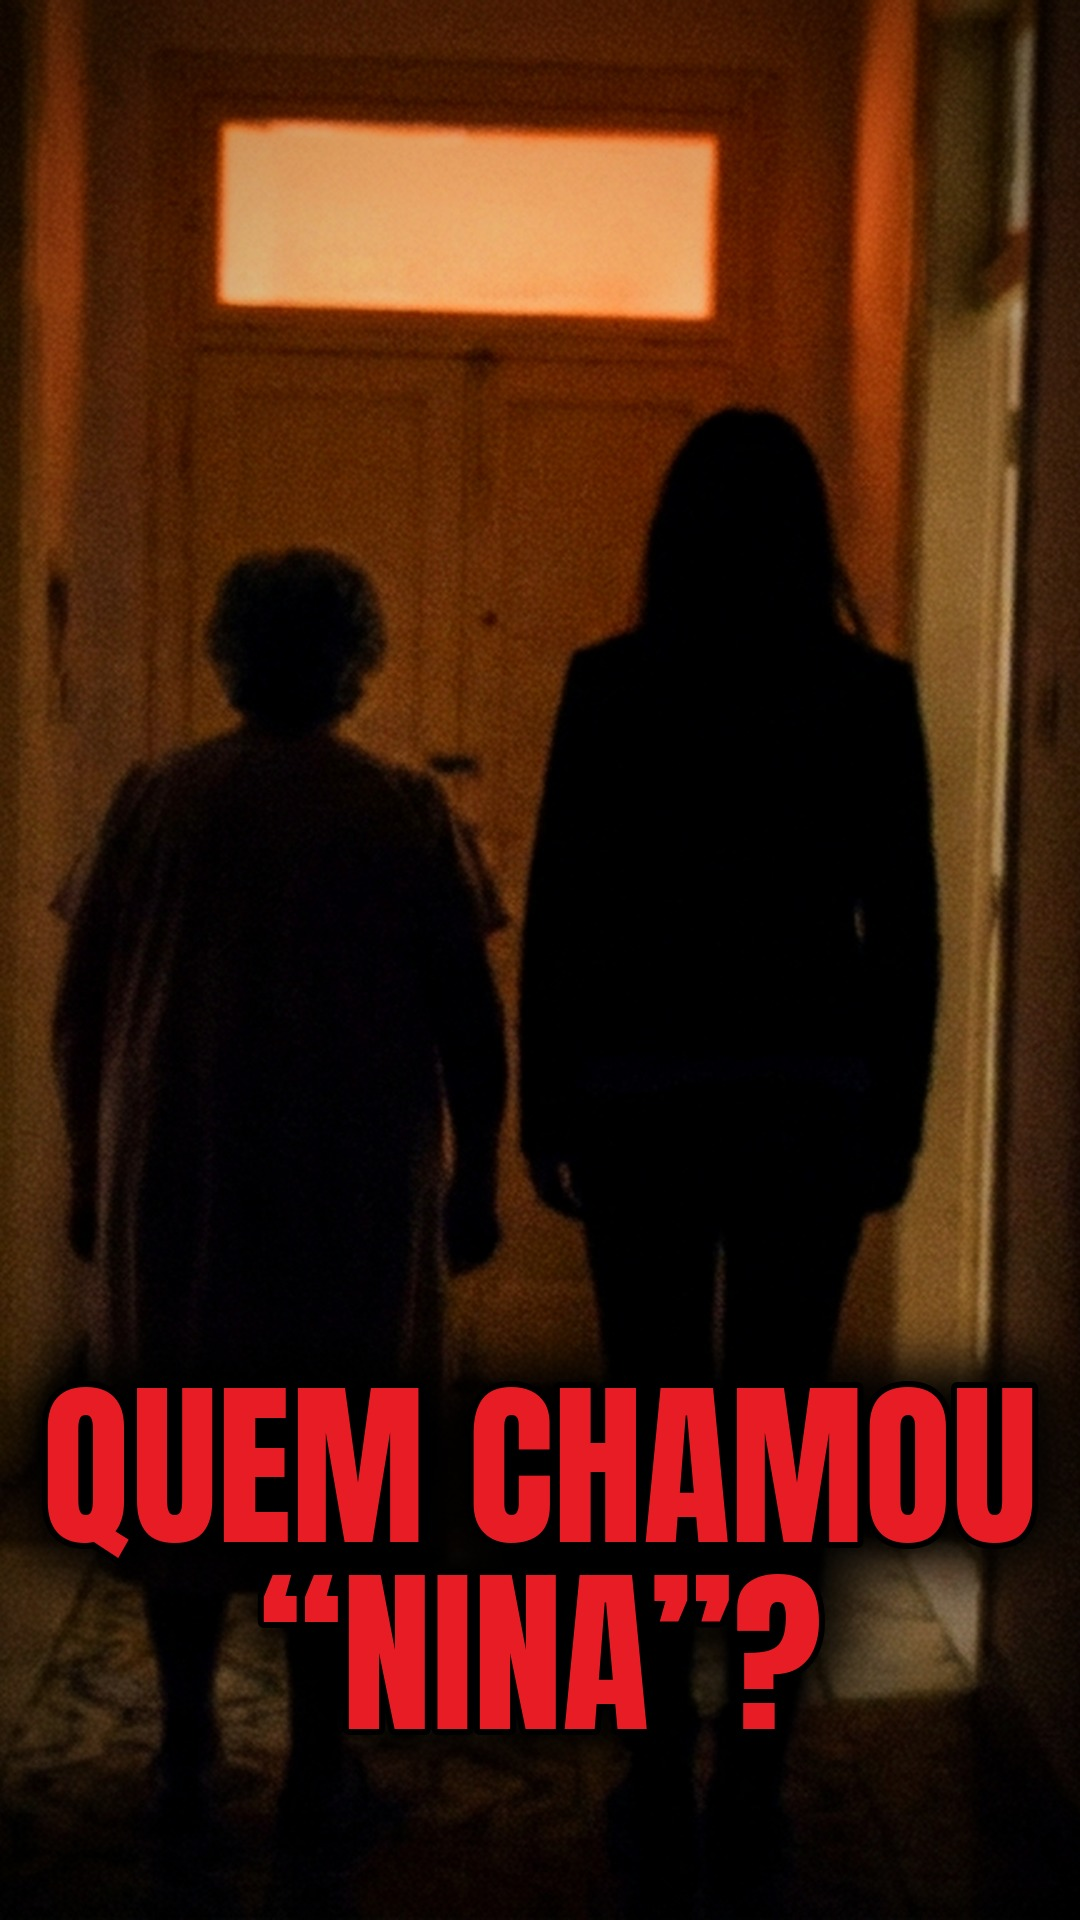
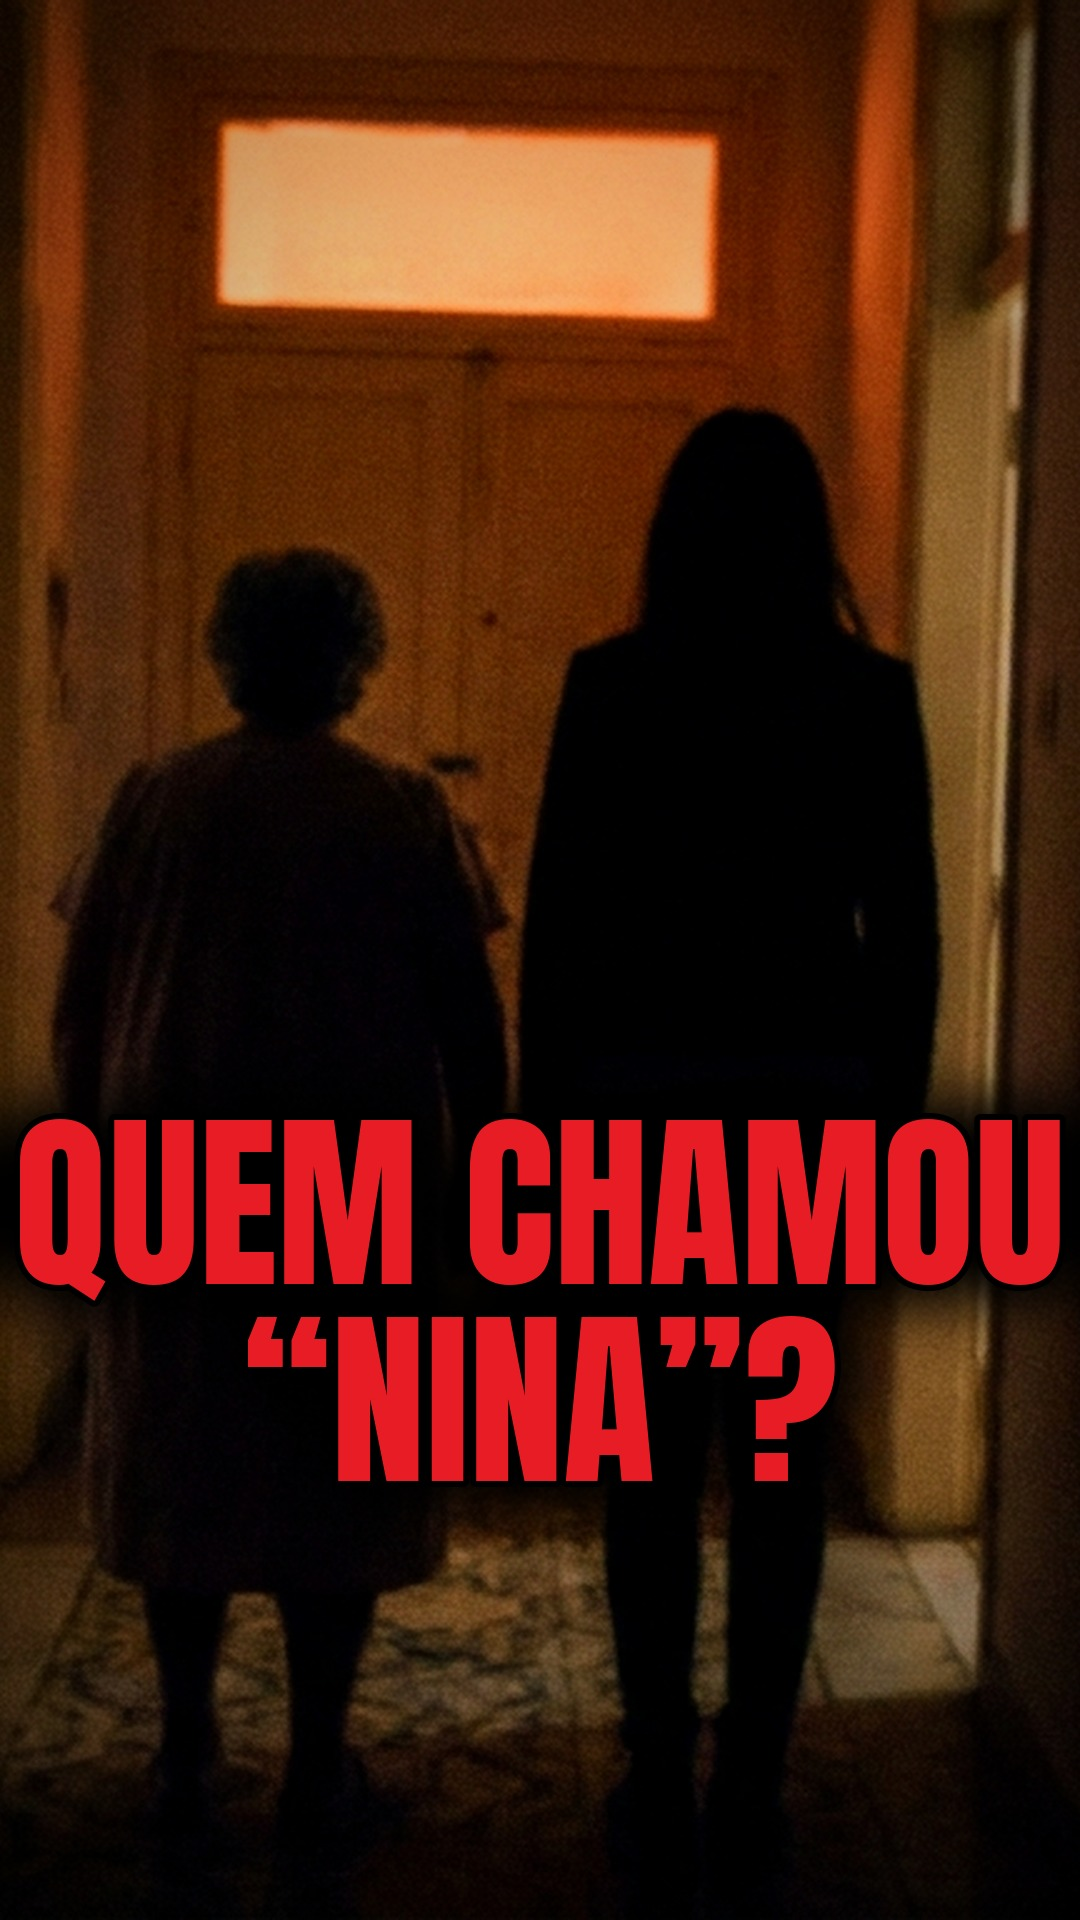
Ep. 05: capas dos Shorts com texto na zona segura; Short 3 com 'NÃO ABRE.' (não repete o título)
Claude-Session: https://claude.ai/code/session_01Mik5s9WJkfvsyjJAMyZLER

Changed region(s): [[0.0, 0.5312, 1.0, 0.9375]]

diff --git a/video/episodios/ep05-cabra-cabriola/publicacao/fazer_capas_shorts.py b/video/episodios/ep05-cabra-cabriola/publicacao/fazer_capas_shorts.py
@@ -39,7 +39,9 @@ def texto(im, linhas, y, tam, cor=(232, 28, 36)):
     return im.convert("RGB")
 
 
-texto(base("B01_porta_corredor.jpg", (0.5, 0.42), 1.15), ["QUEM TÁ", "FALANDO AÍ?"], 1250, 190).save(AQUI / "capa_short1_quem_ta_falando.jpg", quality=92)
-texto(base("B08_duas_corredor.jpg", (0.5, 0.5), 1.0), ["QUEM CHAMOU", "“NINA”?"], 1330, 180).save(AQUI / "capa_short2_nina.jpg", quality=92)
-texto(base("B11c_fresta_quatro.jpg", (0.52, 0.5), 1.25), ["OLHA", "PRA BAIXO."], 330, 220).save(AQUI / "capa_short3_olha_pra_baixo.jpg", quality=92)
+# 12/11: o texto da capa COMPLETA o título (não repete) e fica na zona segura (y < ~1450): embaixo o app põe
+# título, canal e botões por cima.
+texto(base("B01_porta_corredor.jpg", (0.5, 0.42), 1.15), ["QUEM TÁ", "FALANDO AÍ?"], 1020, 200).save(AQUI / "capa_short1_quem_ta_falando.jpg", quality=92)
+texto(base("B08_duas_corredor.jpg", (0.5, 0.5), 1.0), ["QUEM CHAMOU", "“NINA”?"], 1060, 190).save(AQUI / "capa_short2_nina.jpg", quality=92)
+texto(base("B11c_fresta_quatro.jpg", (0.52, 0.5), 1.25), ["NÃO", "ABRE."], 300, 300).save(AQUI / "capa_short3_olha_pra_baixo.jpg", quality=92)
 print("ok")
